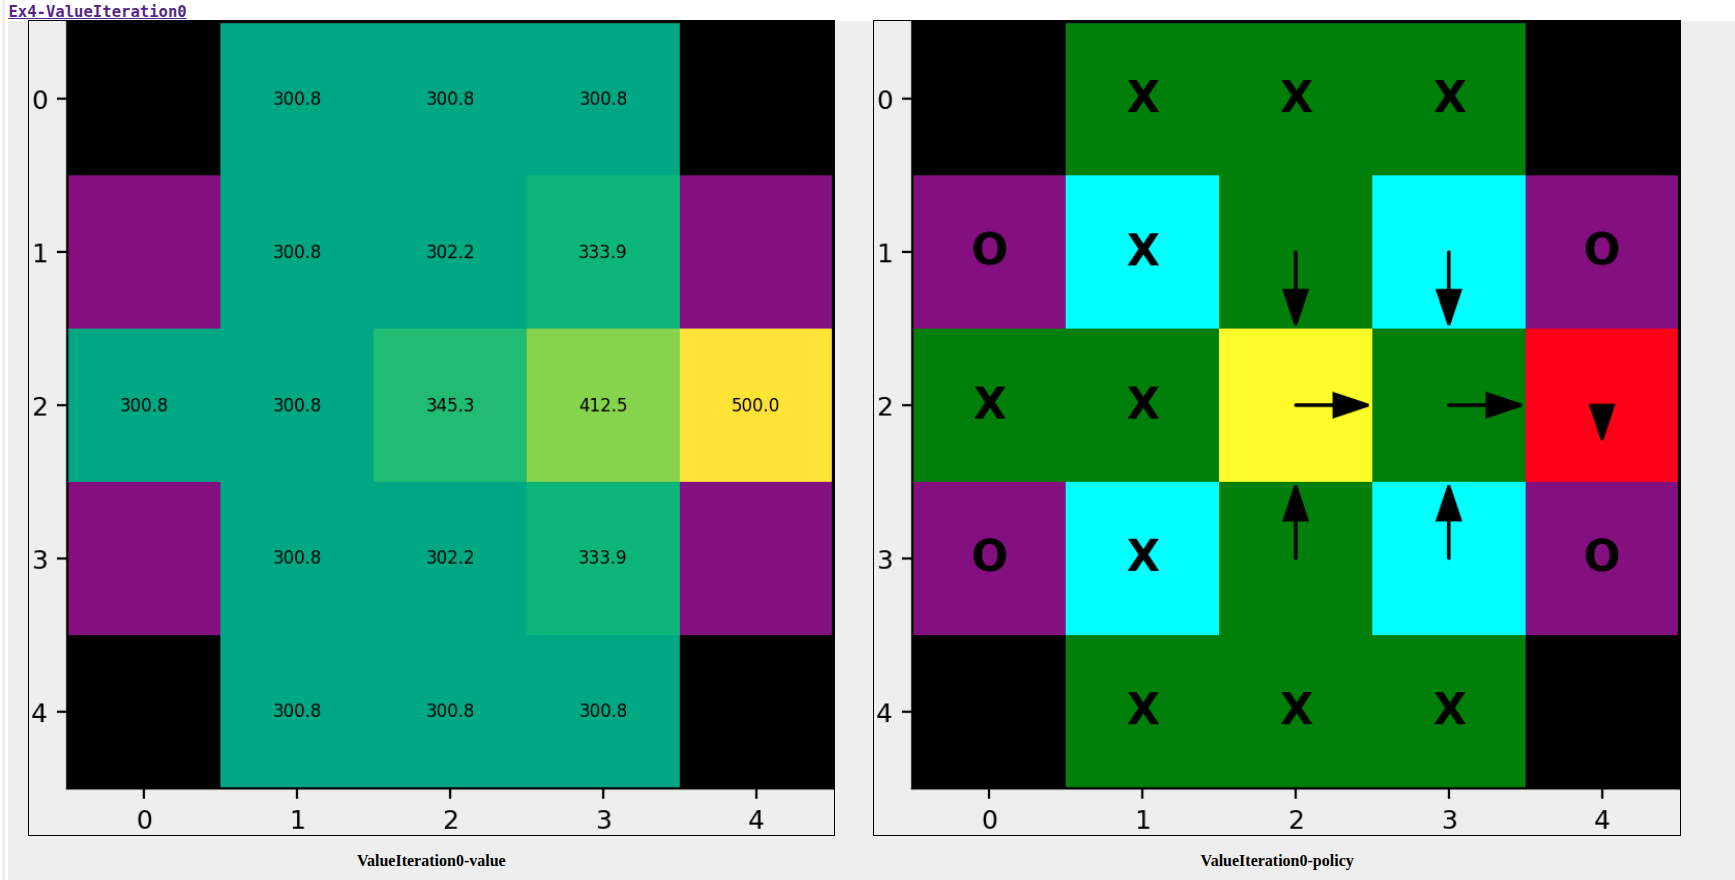
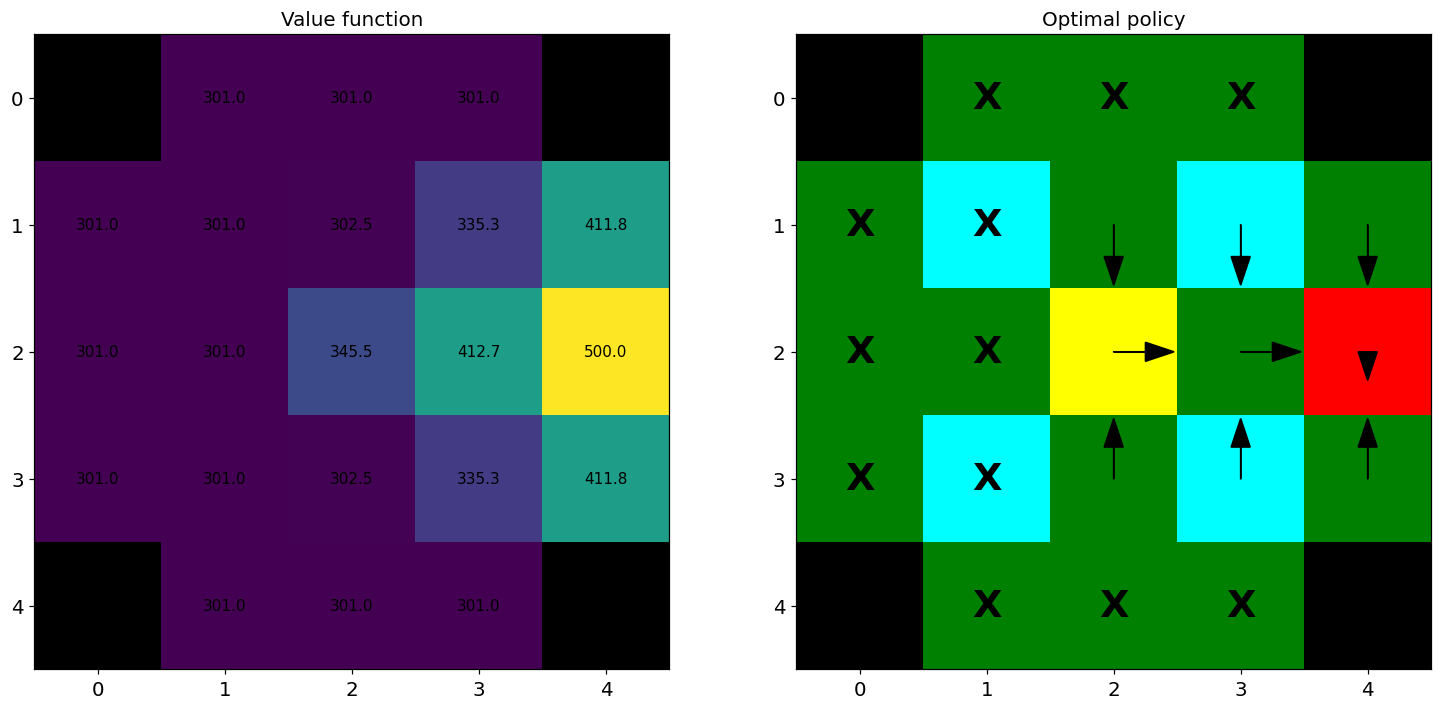
Restore the VI/PI/Expected-outcome handout subsections and refresh the example figure
Brings back the separate Value Iteration, Policy iteration, and Expected
outcome subsections with full class skeletons (updated to the current solve
signature with max_iters), the output-format and CLIFF-exclusion paragraph,
and Figure 1 - regenerated from the new 5x5 map with the reference solution
so it matches what students see in their reports.

diff --git a/docs/04-dynamicprogramming.md b/docs/04-dynamicprogramming.md
@@ -255,14 +255,32 @@ class GlitchGridMdp(AugmentedGridMdp): ...     # Z = 2
 Feel free to add more methods in case you need to.
 You must not change the names and signatures of `get_transition_prob` and `stage_reward`.
 
-### Value Iteration and Policy Iteration
+#### Value Iteration
 
-Implement `solve` in ``exercises/ex04/value_iteration.py`` and
+We'll start with value iteration. You need to implement the `solve` method in
+``exercises/ex04/value_iteration.py``:
+
+```python
+class ValueIteration(GridMdpSolver):
+    @staticmethod
+    @time_function
+    def solve(grid_mdp: AnyGridMdp, max_iters: Optional[int] = None) -> tuple[ValueFunc, Policy]:
+        # todo implement here
+        ...
+```
+
+#### Policy iteration
+
+For policy iteration, you need to implement the `solve` method in
 ``exercises/ex04/policy_iteration.py``:
 
 ```python
-def solve(grid_mdp, max_iters: int | None = None) -> tuple[ValueFunc, Policy]:
-    ...
+class PolicyIteration(GridMdpSolver):
+    @staticmethod
+    @time_function
+    def solve(grid_mdp: AnyGridMdp, max_iters: Optional[int] = None) -> tuple[ValueFunc, Policy]:
+        # todo implement here
+        ...
 ```
 
 One solver serves both parts: if you write it to iterate over "the states of the MDP" it runs
@@ -271,14 +289,39 @@ state of your algorithm after exactly k iterations (k synchronous sweeps for VI;
 evaluate-improve cycles for PI), starting from V = 0 and, for PI, from the first admissible
 action per state, breaking ties by action order.
 
+#### Expected outcome
+
+For both _Value_ and _Policy iterations_, you need to return the optimal `ValueFunc` and
+**one of the optimal `Policy`** for the given MDP.
+
 > **Note**: The optimal value function is unique, but the optimal policy is not. You can
-> return any optimal policy; the ground truth stores all optimal actions per state, so your
-> tie-breaking never costs you.
+> return any optimal policy that satisfies the Bellman optimality equation; the ground truth
+> stores all optimal actions per state, so your tie-breaking never costs you.
+
+To keep the format consistent, the value function and policy should be returned as numpy
+arrays where each cell corresponds to the value of the state or the action to be taken in the
+state, respectively: _MxN_ matrices in Part 1 and _MxNxZ_ arrays in Part 2. The value
+function and policy of `CLIFF` cells will be excluded for evaluation. This is because you are
+never in `CLIFF`.
+
+If your algorithm works, in the report you should find some results similar to this:
+
+{: #example-picture}
+![image](img/ex04_example.png)
+
+<span style="text-align: center; display: block;">
+Figure 1: Visualization of the optimal value function and policy for the 5x5 example.
+</span>
+
+On the left the Value function is visualized as a heatmap.
+On the right you can see the map with the original cells and the corresponding optimal policy
+(arrows for movement actions, X for the ``ABANDON`` action).
 
 ### Help for modeling the MDP
 
 Correctly modeling the MDPs is crucial. For Part 1 we provide the admissible action set and
-ground truth transition probabilities and rewards for selected cells of the 5x5 example map;
+ground truth transition probabilities and rewards for selected cells of the
+[5x5 example](#example-picture) map;
 for Part 2, `get_transition_prob` is additionally evaluated on sampled augmented triples.
 The coordinates of the cells are given in the format `(row, column)` starting from the top
 left corner of the grid. All axes are 0-indexed.
